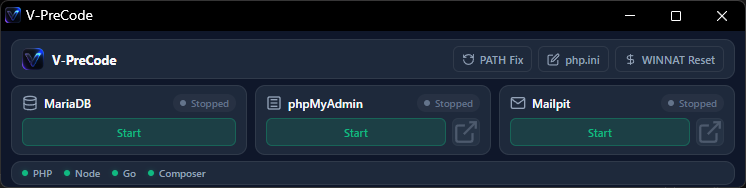
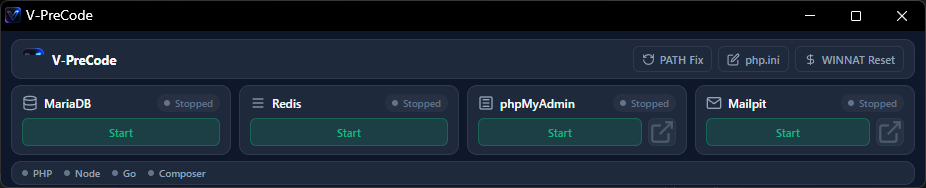
Release v2.0.0: Add Redis server integration, updated 4-card service UI, and refreshed documentation

diff --git a/manager-src/ui/app.js b/manager-src/ui/app.js
@@ -7,6 +7,7 @@
 // Service State Store (State machine: 'stopped' | 'starting' | 'running' | 'stopping')
 const serviceStates = {
     mariadb: 'stopped',
+    redis: 'stopped',
     pma: 'stopped',
     mailpit: 'stopped'
 };
@@ -125,6 +126,7 @@ async function toggleService(serviceKey) {
 function capitalize(str) {
     if (str === 'pma') return 'phpMyAdmin';
     if (str === 'mariadb') return 'MariaDB';
+    if (str === 'redis') return 'Redis';
     return str.charAt(0).toUpperCase() + str.slice(1);
 }
 
@@ -136,7 +138,7 @@ async function fetchServicesStatus() {
         if (data.success && data.data) {
             const status = data.data;
 
-            ['mariadb', 'mailpit', 'pma'].forEach(key => {
+            ['mariadb', 'redis', 'mailpit', 'pma'].forEach(key => {
                 // Ignore status updates if user just initiated a transition
                 if (serviceStates[key] !== 'starting' && serviceStates[key] !== 'stopping') {
                     const isRunning = Boolean(status[key]);
@@ -209,6 +211,7 @@ async function executeQuickTool(endpoint, successMessage, btnElement) {
 window.addEventListener('load', () => {
     // Bind service toggle buttons
     document.getElementById('btn-mariadb-toggle')?.addEventListener('click', () => toggleService('mariadb'));
+    document.getElementById('btn-redis-toggle')?.addEventListener('click', () => toggleService('redis'));
     document.getElementById('btn-pma-toggle')?.addEventListener('click', () => toggleService('pma'));
     document.getElementById('btn-mailpit-toggle')?.addEventListener('click', () => toggleService('mailpit'));
 

diff --git a/manager-src/ui/index.html b/manager-src/ui/index.html
@@ -59,6 +59,25 @@
                 </div>
             </div>
 
+            <!-- Redis Cache Service Card -->
+            <div class="service-card" id="card-redis">
+                <div class="service-header">
+                    <div class="service-info">
+                        <svg class="service-icon" viewBox="0 0 24 24" fill="none" stroke="currentColor" stroke-width="2"><path d="M4 6h16M4 12h16M4 18h16"/></svg>
+                        <span class="service-title">Redis</span>
+                    </div>
+                    <div class="status-badge stopped" id="badge-redis">
+                        <span class="status-dot"></span>
+                        <span class="status-text">Stopped</span>
+                    </div>
+                </div>
+                <div class="service-actions">
+                    <button class="btn-toggle action-start" id="btn-redis-toggle">
+                        <span>Start</span>
+                    </button>
+                </div>
+            </div>
+
             <!-- phpMyAdmin Service Card -->
             <div class="service-card" id="card-pma">
                 <div class="service-header">

diff --git a/manager-src/ui/style.css b/manager-src/ui/style.css
@@ -149,7 +149,7 @@ body {
 /* Services Component Grid */
 .services-grid {
     display: grid;
-    grid-template-columns: repeat(3, 1fr);
+    grid-template-columns: repeat(4, 1fr);
     gap: 8px;
     flex: 1;
 }

diff --git a/manager-src/services/services.go b/manager-src/services/services.go
@@ -17,11 +17,13 @@ var (
 	mariadbCmd    *exec.Cmd
 	phpMyAdminCmd *exec.Cmd
 	mailpitCmd    *exec.Cmd
+	redisCmd      *exec.Cmd
 
 	// Mutexes to prevent concurrent start/stop race conditions
 	mariaDbMutex sync.Mutex
 	pmaMutex     sync.Mutex
 	mailpitMutex sync.Mutex
+	redisMutex   sync.Mutex
 )
 
 // TIP: Checks if a TCP port is active on localhost (127.0.0.1)
@@ -68,6 +70,7 @@ func GetServicesStatus() map[string]bool {
 		"mariadb": isPortOpen("3306"),
 		"mailpit": isPortOpen("8025"),
 		"pma":     isPortOpen("8080"),
+		"redis":   isPortOpen("6379"),
 	}
 }
 
@@ -324,11 +327,79 @@ func StopMailpit() error {
 	return nil
 }
 
+// TIP: Starts Redis cache/key-value store server and waits synchronously for TCP 6379 readiness
+func StartRedis(rootDir string) error {
+	redisMutex.Lock()
+	defer redisMutex.Unlock()
+
+	if isPortOpen("6379") {
+		return nil
+	}
+
+	killOrphanedProcess("redis-server.exe")
+	killProcessUsingPort("6379")
+	time.Sleep(300 * time.Millisecond)
+
+	exe := filepath.Join(rootDir, "redis", "redis-server.exe")
+	if _, err := os.Stat(exe); os.IsNotExist(err) {
+		return fmt.Errorf("redis-server.exe not found at %s", exe)
+	}
+
+	confFile := filepath.Join(rootDir, "redis", "redis.windows.conf")
+	if _, err := os.Stat(confFile); err == nil {
+		redisCmd = exec.Command(exe, confFile)
+	} else {
+		redisCmd = exec.Command(exe)
+	}
+
+	hideWindow(redisCmd)
+	err := redisCmd.Start()
+	if err != nil {
+		return fmt.Errorf("failed to start Redis server: %v", err)
+	}
+
+	if !waitForPortOpen("6379", 5) {
+		if redisCmd != nil && redisCmd.Process != nil {
+			_ = redisCmd.Process.Kill()
+		}
+		return fmt.Errorf("Redis server failed to bind to port 6379 within timeout")
+	}
+
+	return nil
+}
+
+// TIP: Gracefully shuts down Redis server using redis-cli shutdown or fallback process kill
+func StopRedis(rootDir string) error {
+	redisMutex.Lock()
+	defer redisMutex.Unlock()
+
+	if !isPortOpen("6379") {
+		return nil
+	}
+
+	cliExe := filepath.Join(rootDir, "redis", "redis-cli.exe")
+	if _, err := os.Stat(cliExe); err == nil {
+		shutdownCmd := exec.Command(cliExe, "shutdown")
+		hideWindow(shutdownCmd)
+		_ = shutdownCmd.Run()
+	}
+
+	if !waitForPortClose("6379", 3) {
+		killOrphanedProcess("redis-server.exe")
+		killProcessUsingPort("6379")
+		waitForPortClose("6379", 2)
+	}
+
+	redisCmd = nil
+	return nil
+}
+
 // StopAll cleans up all sub-services when DevEnvManager shuts down
 func StopAll(rootDir string) {
 	_ = StopMariaDB(rootDir)
 	_ = StopPHPMyAdmin()
 	_ = StopMailpit()
+	_ = StopRedis(rootDir)
 }
 
 // ViewPHPIni ensures php.ini exists and opens it in Notepad for easy configuration

diff --git a/manager-src/server/server.go b/manager-src/server/server.go
@@ -36,6 +36,8 @@ func StartServer(rootDir string, port string, uiFS fs.FS) {
 	http.HandleFunc("/api/mailpit/stop", handleStopMailpit)
 	http.HandleFunc("/api/pma/start", handleStartPMA)
 	http.HandleFunc("/api/pma/stop", handleStopPMA)
+	http.HandleFunc("/api/redis/start", handleStartRedis)
+	http.HandleFunc("/api/redis/stop", handleStopRedis)
 	http.HandleFunc("/api/phpini/view", handleViewPHPIni)
 	http.HandleFunc("/api/winnat/reset", handleWinnatReset)
 	http.HandleFunc("/api/path/fix", handlePathFix)
@@ -125,6 +127,24 @@ func handleStopPMA(w http.ResponseWriter, r *http.Request) {
 		return
 	}
 	respondJSON(w, true, "PHPMyAdmin Stopped")
+}
+
+func handleStartRedis(w http.ResponseWriter, r *http.Request) {
+	err := services.StartRedis(cfg.RootDir)
+	if err != nil {
+		respondJSON(w, false, err.Error())
+		return
+	}
+	respondJSON(w, true, "")
+}
+
+func handleStopRedis(w http.ResponseWriter, r *http.Request) {
+	err := services.StopRedis(cfg.RootDir)
+	if err != nil {
+		respondJSON(w, false, err.Error())
+		return
+	}
+	respondJSON(w, true, "Redis Stopped")
 }
 
 func handleViewPHPIni(w http.ResponseWriter, r *http.Request) {

diff --git a/manager-src/pathmanager/pathmanager.go b/manager-src/pathmanager/pathmanager.go
@@ -20,6 +20,8 @@ var toolsToOverride = []string{
 	"composer.phar",
 	"mysql.exe",
 	"mysqld.exe",
+	"redis-server.exe",
+	"redis-cli.exe",
 }
 
 func containsTargetExecutable(dir string) bool {
@@ -63,6 +65,7 @@ func CleanAndInjectPath(rootDir string) error {
 		filepath.Join(rootDir, "go", "go", "bin"),
 		filepath.Join(rootDir, "composer"),
 		filepath.Join(rootDir, "mariadb", "bin"),
+		filepath.Join(rootDir, "redis"),
 	}
 
 	// Read User PATH instead of System PATH to avoid needing Administrator privileges

diff --git a/manager-src/main.go b/manager-src/main.go
@@ -87,7 +87,7 @@ func main() {
 		for _, p := range paths {
 			if _, err := os.Stat(p); err == nil {
 				// Run browser directly with dedicated profile and app ID for taskbar identity
-				exec.Command(p, "--app="+url, "--app-id=VPreCode", "--window-size=760,195", "--user-data-dir="+profileDir).Start()
+				exec.Command(p, "--app="+url, "--app-id=VPreCode", "--window-size=940,195", "--user-data-dir="+profileDir).Start()
 				launched = true
 				break
 			}

diff --git a/README.md b/README.md
@@ -2,17 +2,19 @@
   <img src="logo.webp" alt="V-PreCode Logo" width="120" height="120">
 </p>
 
-<h1 align="center">V-PreCode</h1>
+<h1 align="center">V-PreCode v2.0.0</h1>
 
 <p align="center">
   <strong>An Ultra-Lightweight, Apache-Free Development Environment Manager for Laravel, Node.js, & Go Developers.</strong>
 </p>
 
 <p align="center">
+  <img src="https://img.shields.io/badge/Version-2.0.0-38bdf8?style=for-the-badge" alt="Version">
   <img src="https://img.shields.io/badge/Go-1.22+-00ADD8?style=for-the-badge&logo=go&logoColor=white" alt="Go">
   <img src="https://img.shields.io/badge/Laravel-Compatible-FF2D20?style=for-the-badge&logo=laravel&logoColor=white" alt="Laravel">
   <img src="https://img.shields.io/badge/Node.js-v24+-339933?style=for-the-badge&logo=node.js&logoColor=white" alt="Node.js">
   <img src="https://img.shields.io/badge/MariaDB-Database-003545?style=for-the-badge&logo=mariadb&logoColor=white" alt="MariaDB">
+  <img src="https://img.shields.io/badge/Redis-Cache-DC382D?style=for-the-badge&logo=redis&logoColor=white" alt="Redis">
   <img src="https://img.shields.io/badge/License-MIT-blue?style=for-the-badge" alt="License">
 </p>
 
@@ -21,7 +23,7 @@
 ## 📸 Interface Preview
 
 <p align="center">
-  <img src="screenshot.png" alt="V-PreCode Interface Preview" width="740">
+  <img src="screenshot.png" alt="V-PreCode Interface Preview" width="760">
 </p>
 
 ---
@@ -31,7 +33,7 @@
 > **Looking for a 1-Click Ready Environment?**  
 > Download the pre-packaged installer `V-PreCode-Installer.exe` from the **GitHub Releases** section!
 >
-> It contains the complete pre-configured standalone environment with pre-packaged tool binaries (PHP, Node.js, Go, Composer, MariaDB, Mailpit, phpMyAdmin) ready to use out-of-the-box.
+> It contains the complete pre-configured standalone environment with pre-packaged tool binaries (PHP, Node.js, Go, Composer, MariaDB, Redis, Mailpit, phpMyAdmin) ready to use out-of-the-box.
 > * Automatically extracts all tools to `C:\V-PreCode`.
 > * Includes built-in MIT License agreement verification.
 > * Automatically executes `setup.bat` as Administrator after extraction to inject PATH environment variables and create a Desktop Shortcut.
@@ -43,8 +45,9 @@
 Traditional local environment tools like XAMPP or Laragon force heavy Apache web servers and unnecessary extras when modern **Laravel**, **Node.js**, and **Go** developers already rely on built-in dev servers (`php artisan serve`, `go run`, `npm run dev`).
 
 **V-PreCode** gives you exactly what you need without the bloat:
-* ⚡ **Zero Apache Overhead:** Clean, instant local environment focusing only on MariaDB, Mailpit, and phpMyAdmin.
-* 🔗 **Automatic System PATH Injection:** Instantly registers PHP, Node.js, Go, Composer, and MariaDB to your Windows System/User PATH on startup.
+* ⚡ **Zero Apache Overhead:** Clean, instant local environment focusing on MariaDB, Redis, Mailpit, and phpMyAdmin.
+* 🔴 **1-Click Redis Cache Server:** In-memory key-value cache server running natively on port `6379`.
+* 🔗 **Automatic System PATH Injection:** Instantly registers PHP, Node.js, Go, Composer, MariaDB, and Redis to your Windows System/User PATH on startup.
 * 🛡 **Synchronous Port Waiting & Lock Safety:** Prevents service crash loops by waiting for socket readiness before updating state.
 * 🖥 **Modern Minimalist UI:** Ultra-fast desktop control panel built with Go and clean component-driven HTML/CSS.
 
@@ -84,8 +87,10 @@ C:\V-PreCode\
 ├── php\                   # PHP Command Line & Web Engine
 │   ├── php.exe
 │   └── php.ini
-└── phpmyadmin\            # phpMyAdmin Web Application
-    └── index.php
+├── phpmyadmin\            # phpMyAdmin Web Application
+│   └── index.php
+└── redis\                 # Redis In-Memory Cache & Key-Value Server
+    └── redis-server.exe / redis-cli.exe
 ```
 
 ---
@@ -123,13 +128,19 @@ If you are setting up the environment from scratch, download the official binary
 * **Extraction Path:** `C:\V-PreCode\mariadb\`
 * **Note:** Ensure `mysqld.exe` is located at `C:\V-PreCode\mariadb\bin\mysqld.exe`. On first run, V-PreCode automatically initializes the `data/` folder.
 
-### 6. ✉ Mailpit (Local Mail Testing)
+### 6. 🔴 Redis Cache Server
+* **Download Site:** [github.com/tporadowski/redis/releases](https://github.com/tporadowski/redis/releases)
+* **Recommended Package:** `Redis-x64-5.0.14.1.zip`
+* **Extraction Path:** `C:\V-PreCode\redis\`
+* **Note:** Ensure `redis-server.exe` and `redis-cli.exe` are placed at `C:\V-PreCode\redis\`.
+
+### 7. ✉ Mailpit (Local Mail Testing)
 * **Download Site:** [github.com/axllent/mailpit/releases](https://github.com/axllent/mailpit/releases)
 * **Recommended Package:** `mailpit-windows-amd64.zip`
 * **Extraction Path:** `C:\V-PreCode\mailpit\`
 * **Note:** Ensure `mailpit.exe` is placed directly at `C:\V-PreCode\mailpit\mailpit.exe`.
 
-### 7. 🗄 phpMyAdmin
+### 8. 🗄 phpMyAdmin
 * **Download Site:** [phpmyadmin.net/downloads](https://www.phpmyadmin.net/downloads/)
 * **Recommended Package:** `phpMyAdmin-5.x.x-all-languages.zip`
 * **Extraction Path:** `C:\V-PreCode\phpmyadmin\`
